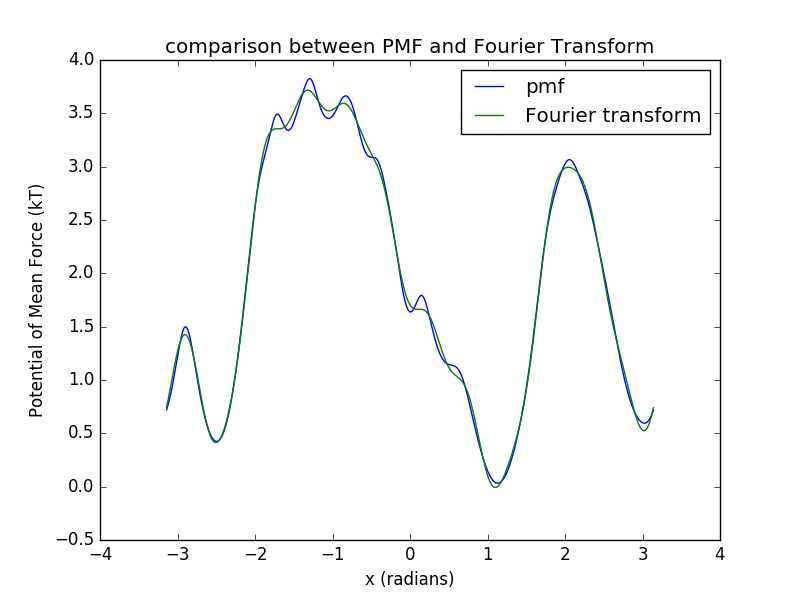
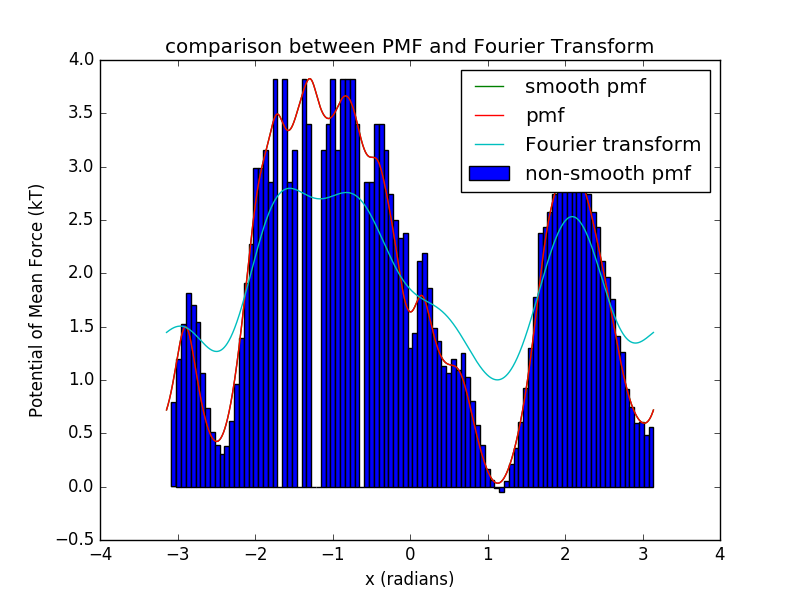
checkin

Changed region(s): [[0.1875, 0.12, 0.9062, 0.84], [0.5938, 0.12, 0.625, 0.15]]

diff --git a/single-molecule-property-generation/torsion_fitting/fitting_example.py b/single-molecule-property-generation/torsion_fitting/fitting_example.py
@@ -7,6 +7,7 @@ import numpy as np
 import scipy.special
 import pdb
 import pickle
+import sys
 
 np.set_printoptions(threshold='nan')
 
@@ -21,8 +22,6 @@ n1 = np.array(n1)
 #        n1[i] = n1[i+1]
 
 #print n1
-
-
 
 ntotal = len(torsion_r48_a)
 # figure out what the width of the kernel density is. 
@@ -53,6 +52,7 @@ plt.savefig('KDE.png')
 
 pmf = -kT*np.log(y)
 pmf1 = -kT*np.log(n1) # now we have the PMF
+pmf1[pmf1==np.inf]=0
 bins1 = np.array(bins1)
 
 #(n1,bins1,patch1) = plt.hist(torsion_r48_a, num_bins, label='AlkEthOH_r48 histogram', color='green', normed=1)
@@ -65,7 +65,20 @@ plt.legend()
 plt.title('Comparison of smoothed and unsmoothed pmf')
 plt.savefig('PMF_smooth_vs_nonsmooth.png')
 
-pdb.set_trace()
+# Directly calculate fourier coefficients
+# http://mathworld.wolfram.com/FourierSeries.html
+# a0 = (1/pi)*integral(f(x) dx)|-inf to inf
+# an = (1/pi)*integral(f(x) cos(nx) dx)|-inf to inf
+# bn = (1/pi)*integral(f(x) sin(nx) dx)|-inf to inf
+a0 = (1/np.pi)*sum(np.diff(bins1)*pmf1)
+a_vals = [(1/np.pi)*sum(np.diff(bins1)*pmf1*np.cos(n*bins1[1:])) for n in np.arange(1,7)]
+b_vals = [(1/np.pi)*sum(np.diff(bins1)*pmf1*np.sin(n*bins1[1:])) for n in np.arange(1,7)]
+
+print a0
+print a_vals
+print b_vals 
+
+
 # adapted from http://stackoverflow.com/questions/4258106/how-to-calculate-a-fourier-series-in-numpy
 # complex fourier coefficients
 def cn(n,y):
@@ -73,11 +86,11 @@ def cn(n,y):
    return c.sum()/c.size
 
 def ft(x, cn, Nh):
-   f = np.array([2*cn[i]*np.exp(1j*i*x) for i in range(1,Nh+1)])
+   f = np.array([cn[i]*np.exp(1j*i*x) for i in range(1,Nh+1)])
    return f.sum()+cn[0]
 
 # generate Fourier series (complex)
-Ns = 12 # needs to be adjusted 
+Ns = 6 # needs to be adjusted 
 cf = np.zeros(Ns+1,dtype=complex)
 for i in range(Ns+1):
     cf[i] = cn(i,pmf)
@@ -113,10 +126,18 @@ cl = np.array(cm) # cast back to array for plotting
 
 # check that it works by plotting
 y2 = cl[0]*np.ones(len(x))
+ans = []
+bns = []
 for i in range(1,Ns+1):
     y2 += cl[2*i-1]*np.sin(i*x)
     y2 += cl[2*i]*np.cos(i*x)
+    ans.append(cl[2*i])
+    bns.append(cl[2*i-1])
 
+print cl[0]
+print ans
+print bns
+sys.exit()
 #How different are the coeficients by the two methods?
 print "Difference between Fourier series and linear fit to finite Fourier"
 print "index   Four   Fit  Diff" 
